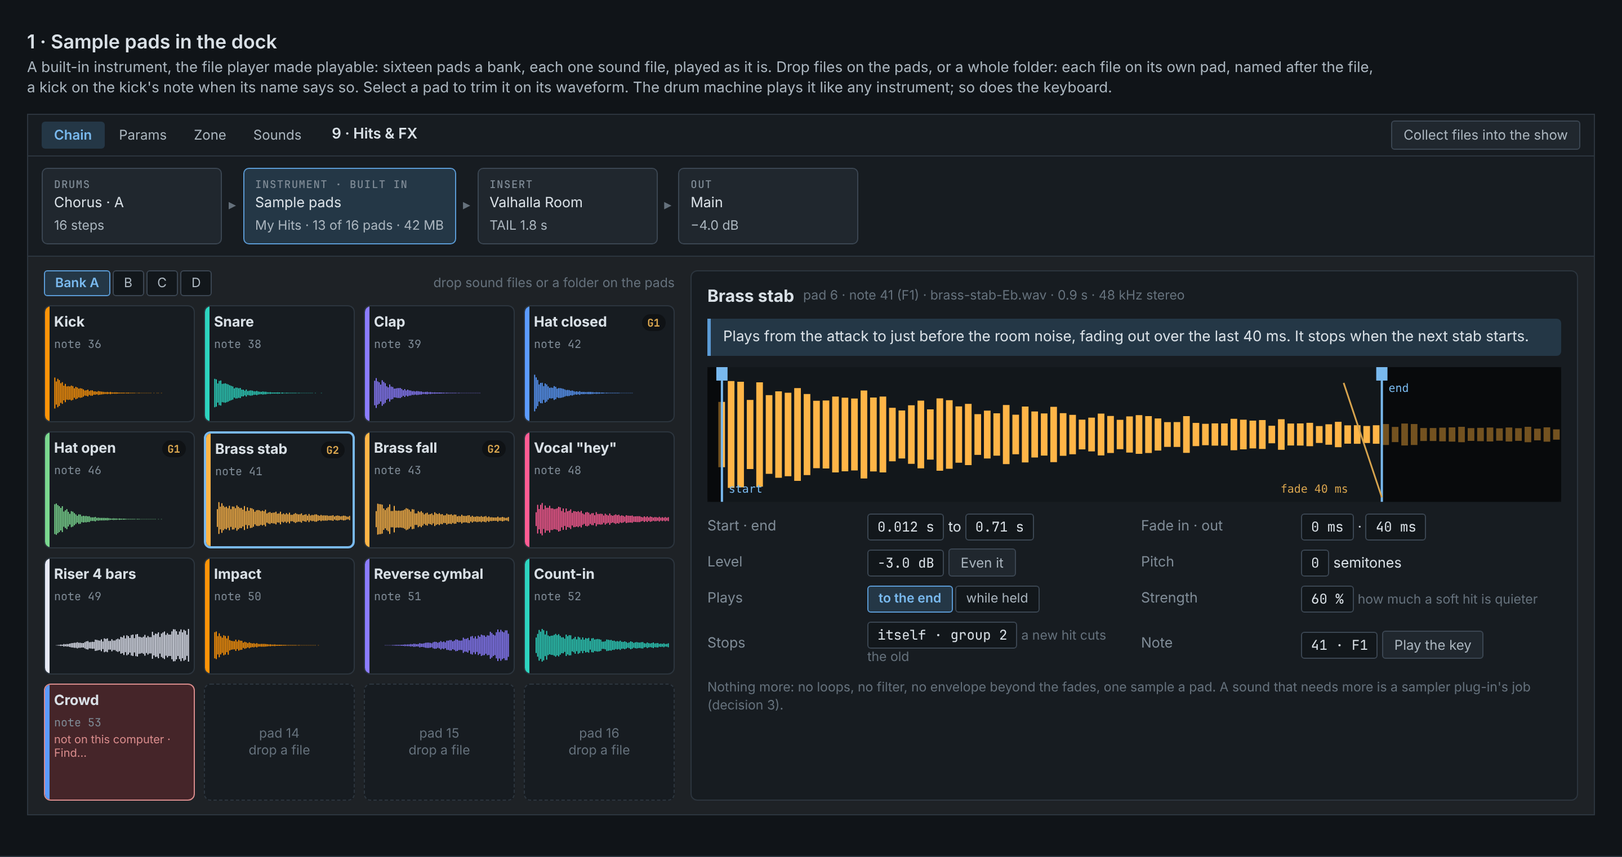
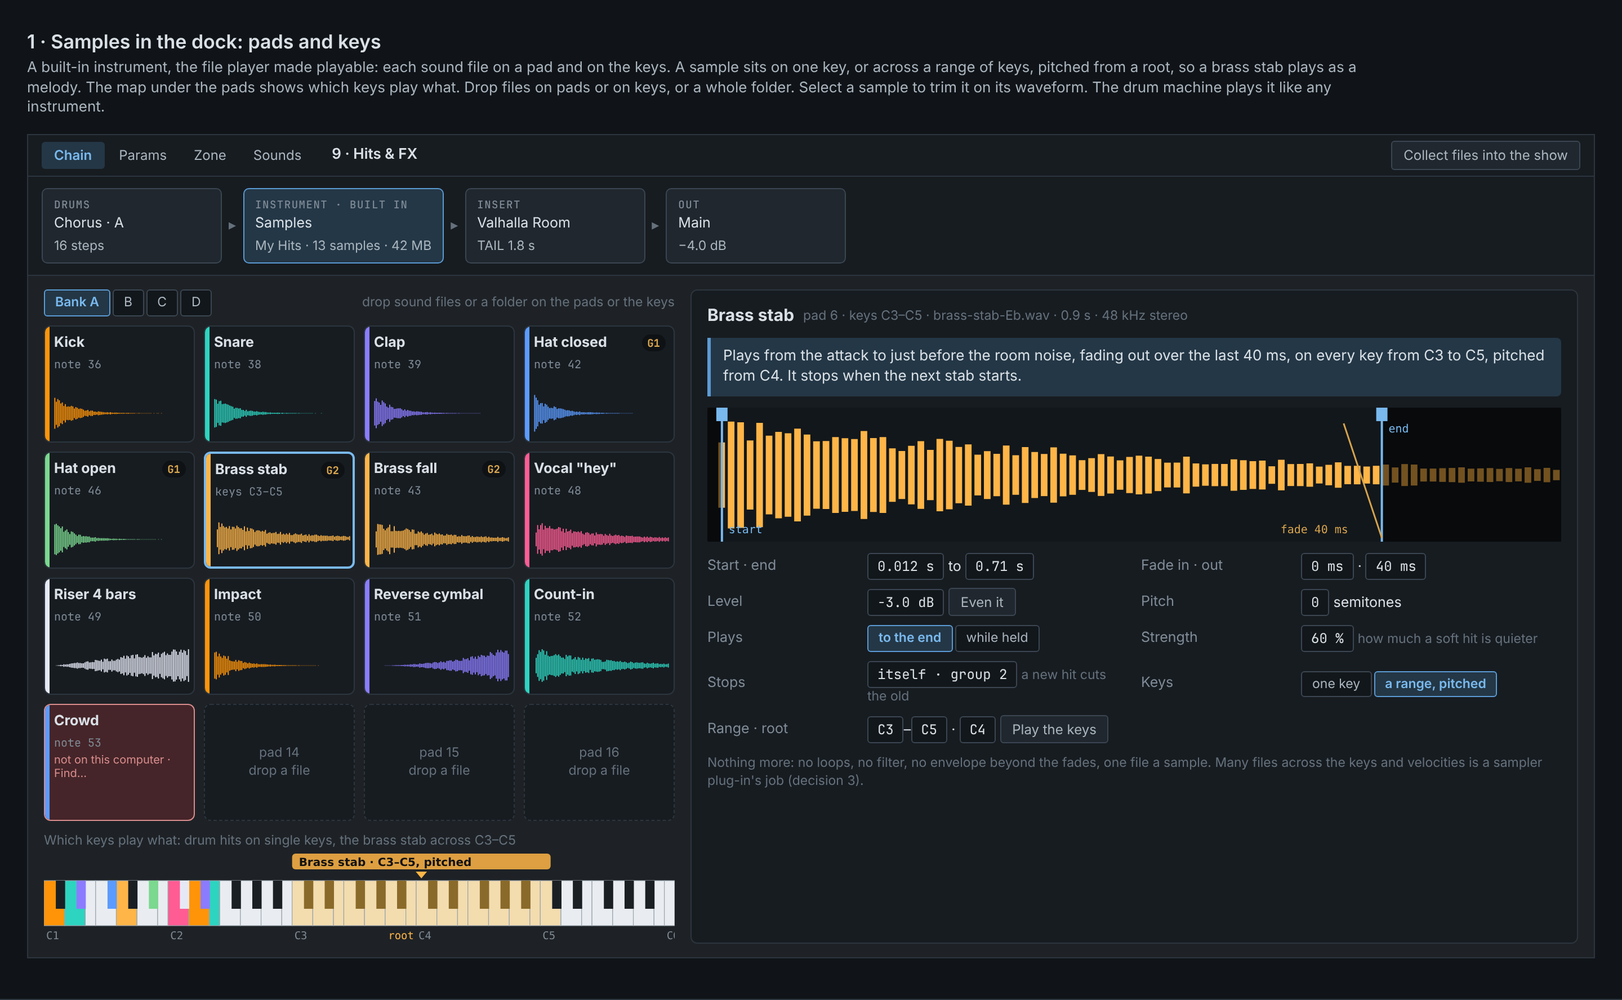
Design: samples approved, on the keys as well as the pads [skip ci]
The owner approved the one-shot sampler with one change: it should not be tied to drum pads; the
keys should play samples too, and be assignable. Every sample now plays from the keys as well as
its pad, on one key or across a range of keys pitched from a root, so a stab or a vocal shout can
be played as a melody. A keyboard map under the pads shows which keys play what, keys are set by
playing them or by dropping a file on them, and the instrument is named Samples. The rest stands:
one file a sample, no loops, filters or envelopes, files collected into the show, SAMPLES and TRIM
on the CTRL49.

Claude-Session: https://claude.ai/code/session_01HyVeCzB98iwNdttddkKjwm

diff --git a/docs/design/hostage-sampler-mockups.html b/docs/design/hostage-sampler-mockups.html
@@ -3,7 +3,7 @@
 <head>
 <meta charset="utf-8">
 <meta name="viewport" content="width=device-width, initial-scale=1">
-<title>HoSTage: sample pads, mockups</title>
+<title>HoSTage: samples, mockups</title>
 <!--
   Mockups for docs/design/hostage-sampler-design.md: sample pads, a built-in one-shot sampler that
   extends the first round's file player (decision 3). Static, invented data; HoSTage's own colours
@@ -70,24 +70,24 @@
 
 <section class="frame" id="f1">
   <div class="caption">
-    <h2>1 · Sample pads in the dock</h2>
-    <p>A built-in instrument, the file player made playable: sixteen pads a bank, each one sound file, played as it is. Drop files on the pads,
-      or a whole folder: each file on its own pad, named after the file, a kick on the kick's note when its name says so. Select a pad to trim it
-      on its waveform. The drum machine plays it like any instrument; so does the keyboard.</p>
+    <h2>1 · Samples in the dock: pads and keys</h2>
+    <p>A built-in instrument, the file player made playable: each sound file on a pad and on the keys. A sample sits on one key, or across a
+      range of keys, pitched from a root, so a brass stab plays as a melody. The map under the pads shows which keys play what. Drop files on
+      pads or on keys, or a whole folder. Select a sample to trim it on its waveform. The drum machine plays it like any instrument.</p>
   </div>
   <div class="app">
     <div class="dtabs"><span class="tb on">Chain</span><span class="tb">Params</span><span class="tb">Zone</span><span class="tb">Sounds</span><span class="subj">9 · Hits &amp; FX</span><span class="sp"></span><span class="ghostb">Collect files into the show</span></div>
     <div class="strip">
       <div class="blk"><small>Drums</small>Chorus · A<span>16 steps</span></div><span class="arrow">▸</span>
-      <div class="blk sel"><small>Instrument · built in</small>Sample pads<span>My Hits · 13 of 16 pads · 42 MB</span></div><span class="arrow">▸</span>
+      <div class="blk sel"><small>Instrument · built in</small>Samples<span>My Hits · 13 samples · 42 MB</span></div><span class="arrow">▸</span>
       <div class="blk"><small>Insert</small>Valhalla Room<span>TAIL 1.8 s</span></div><span class="arrow">▸</span>
       <div class="blk"><small>Out</small>Main<span>−4.0 dB</span></div>
     </div>
     <div class="body">
-      <div><div class="row" style="margin-bottom:8px"><span class="seg"><span class="on">Bank A</span><span>B</span><span>C</span><span>D</span></span><span class="sp"></span><span class="note">drop sound files or a folder on the pads</span></div>
-        <div class="pads" id="pads1"></div></div>
-      <div class="edit"><div class="row"><h4>Brass stab</h4><span class="note">pad 6 · note 41 (F1) · brass-stab-Eb.wav · 0.9 s · 48 kHz stereo</span></div>
-        <div class="say">Plays from the attack to just before the room noise, fading out over the last 40 ms. It stops when the next stab starts.</div>
+      <div><div class="row" style="margin-bottom:8px"><span class="seg"><span class="on">Bank A</span><span>B</span><span>C</span><span>D</span></span><span class="sp"></span><span class="note">drop sound files or a folder on the pads or the keys</span></div>
+        <div class="pads" id="pads1"></div><div id="keys1" style="margin-top:10px"></div></div>
+      <div class="edit"><div class="row"><h4>Brass stab</h4><span class="note">pad 6 · keys C3–C5 · brass-stab-Eb.wav · 0.9 s · 48 kHz stereo</span></div>
+        <div class="say">Plays from the attack to just before the room noise, fading out over the last 40 ms, on every key from C3 to C5, pitched from C4. It stops when the next stab starts.</div>
         <div id="wave1"></div>
         <div class="kv">
           <span class="k">Start · end</span><span><span class="field">0.012 s</span> to <span class="field">0.71 s</span></span>
@@ -97,9 +97,10 @@
           <span class="k">Plays</span><span class="seg"><span class="on">to the end</span><span>while held</span></span>
           <span class="k">Strength</span><span><span class="field">60 %</span> <span class="note">how much a soft hit is quieter</span></span>
           <span class="k">Stops</span><span><span class="field">itself · group 2</span> <span class="note">a new hit cuts the old</span></span>
-          <span class="k">Note</span><span><span class="field">41 · F1</span> <span class="ghostb">Play the key</span></span>
+          <span class="k">Keys</span><span class="seg"><span>one key</span><span class="on">a range, pitched</span></span>
+          <span class="k">Range · root</span><span><span class="field">C3</span>–<span class="field">C5</span> · <span class="field">C4</span> <span class="ghostb">Play the keys</span></span>
         </div>
-        <div class="note">Nothing more: no loops, no filter, no envelope beyond the fades, one sample a pad. A sound that needs more is a sampler plug-in's job (decision 3).</div>
+        <div class="note">Nothing more: no loops, no filter, no envelope beyond the fades, one file a sample. Many files across the keys and velocities is a sampler plug-in's job (decision 3).</div>
       </div>
     </div>
   </div>
@@ -108,7 +109,7 @@
 <section class="frame" id="f2">
   <div class="caption">
     <h2>2 · Two pages on the CTRL49</h2>
-    <p>SAMPLES puts the bank on the pads: play them, or hold SELECT and press one to edit it. TRIM is the selected sample on its waveform:
+    <p>SAMPLES puts the bank on the pads, and the keys play what is mapped to them: play, or hold SELECT and press a pad or a key to edit its sample. TRIM is the selected sample on its waveform:
       start, end and the fades on the knobs, then level, pitch and how it plays. Which knob and pad does what is settled when the pages are built.</p>
   </div>
   <div class="two"><figure id="p1"></figure><figure id="p2"></figure></div>
@@ -117,7 +118,7 @@
 <script>
   const PADS = [
     ['Kick', 36, '#ff9408'], ['Snare', 38, '#2dd4bf'], ['Clap', 39, '#8b7cff'], ['Hat closed', 42, '#5b9bff', 'G1'],
-    ['Hat open', 46, '#7bd88f', 'G1'], ['Brass stab', 41, '#ffb547', 'G2', 'sel'], ['Brass fall', 43, '#ffb547', 'G2'], ['Vocal "hey"', 48, '#ff5c93'],
+    ['Hat open', 46, '#7bd88f', 'G1'], ['Brass stab', 'C3–C5', '#ffb547', 'G2', 'sel'], ['Brass fall', 43, '#ffb547', 'G2'], ['Vocal "hey"', 48, '#ff5c93'],
     ['Riser 4 bars', 49, '#e6e9f5'], ['Impact', 50, '#ff9408'], ['Reverse cymbal', 51, '#8b7cff'], ['Count-in', 52, '#2dd4bf'],
     ['Crowd', 53, '#5b9bff', null, 'miss'], [null], [null], [null],
   ];
@@ -129,8 +130,17 @@
   document.getElementById('pads1').innerHTML = PADS.map(([n, note, c, ch, st], i) => {
     if (!n) return `<div class="pad empty">pad ${i + 1}<br>drop a file</div>`;
     const shape = /Riser/.test(n) ? 'rise' : /Reverse/.test(n) ? 'rev' : /Kick|Snare|Clap|Hat|Impact/.test(n) ? 'hit' : 'stab';
-    return `<div class="pad${st === 'sel' ? ' sel' : ''}${st === 'miss' ? ' miss' : ''}"><span class="bar" style="background:${c}"></span><b>${n}</b><small>note ${note}</small>${ch ? `<span class="ch">${ch}</span>` : ''}
+    return `<div class="pad${st === 'sel' ? ' sel' : ''}${st === 'miss' ? ' miss' : ''}"><span class="bar" style="background:${c}"></span><b>${n}</b><small>${typeof note === 'number' ? 'note ' + note : 'keys ' + note}</small>${ch ? `<span class="ch">${ch}</span>` : ''}
       ${st === 'miss' ? '<small style="color:var(--danger);font-family:var(--sans)">not on this computer · Find…</small>' : `<svg class="wf" viewBox="0 0 120 34" preserveAspectRatio="none">${wave(120, 34, shape, c)}</svg>`}</div>`; }).join('');
+  { const LO = 36, HI = 96, W = 560, kw = W / (HI - LO + 1); const blk = (n) => [1, 3, 6, 8, 10].includes(n % 12); let s = '';
+    const single = { 36: '#ff9408', 38: '#2dd4bf', 39: '#8b7cff', 42: '#5b9bff', 46: '#7bd88f', 43: '#ffb547', 48: '#ff5c93', 49: '#e6e9f5', 50: '#ff9408', 51: '#8b7cff', 52: '#2dd4bf' };
+    s += `<rect x="${(60 - LO) * kw}" y="0" width="${(85 - 60) * kw}" height="14" rx="3" fill="#ffb547" opacity=".85"/><text x="${(60 - LO) * kw + 6}" y="11" font-family="DejaVu Sans, sans-serif" font-size="10" font-weight="700" fill="#111">Brass stab · C3–C5, pitched</text>`;
+    s += `<polygon points="${(72 - LO) * kw + kw / 2 - 5},16 ${(72 - LO) * kw + kw / 2 + 5},16 ${(72 - LO) * kw + kw / 2},22" fill="#ffb547"/>`;
+    for (let n = LO; n <= HI; n++) if (!blk(n)) { const m = blk(n + 1) ? n + 2 : n + 1; s += `<rect x="${(n - LO) * kw}" y="24" width="${(Math.min(m, HI + 1) - n) * kw}" height="40" fill="${single[n] || (n >= 60 && n <= 84 ? '#f3dcae' : '#e9edf1')}" stroke="#9aa4ad" stroke-width=".6"/>`; }
+    for (let n = LO; n <= HI; n++) if (blk(n)) s += `<rect x="${(n - LO) * kw + kw * .15}" y="24" width="${kw * .9}" height="25" fill="${single[n] || (n >= 60 && n <= 84 ? '#8a6a2a' : '#1a1f24')}"/>`;
+    [36, 48, 60, 72, 84, 96].forEach((n) => { s += `<text x="${(n - LO) * kw + 2}" y="76" font-family="DejaVu Sans Mono, monospace" font-size="9.5" fill="#7f8b96">C${n / 12 - 2}</text>`; });
+    s += `<text x="${(72 - LO) * kw - 2}" y="76" font-family="DejaVu Sans Mono, monospace" font-size="9.5" fill="#ffb547" text-anchor="end">root</text>`;
+    document.getElementById('keys1').innerHTML = `<div class="note" style="margin-bottom:4px">Which keys play what: drum hits on single keys, the brass stab across C3–C5</div><svg viewBox="0 0 ${W} 80" style="width:100%;height:auto;display:block">${s}</svg>`; }
   { const W = 760, H = 120; let s = `<rect width="${W}" height="${H}" rx="4" fill="#12171b"/>` + wave(W, H, 'stab', '#ffb547', [.017, .79]);
     const sx = .017 * W, ex = .79 * W;
     s += `<line x1="${sx}" y1="0" x2="${sx}" y2="${H}" stroke="#79b9ee" stroke-width="2"/><rect x="${sx - 5}" y="0" width="10" height="12" fill="#79b9ee"/>`;
@@ -164,11 +174,11 @@
     s += `<g transform="translate(16,38)">${wave(448, 110, 'stab', C.amber, [.017, .79])}</g>`;
     s += `<rect x="${16 + .017 * 448 - 1}" y="36" width="2" height="114" fill="${C.teal}"/><rect x="${16 + .79 * 448 - 1}" y="36" width="2" height="114" fill="${C.teal}"/>`;
     s += `<path d="M${16 + .79 * 448 - 20} 44 L${16 + .79 * 448} 146" stroke="${C.amber}" stroke-width="1.5" fill="none"/>`;
-    s += T(16, 166, 'PLAYS TO THE END · STOPS ITSELF AND GROUP 2', C.label, 8, "font-weight='700'");
+    s += T(16, 166, 'PLAYS TO THE END · STOPS ITSELF AND GROUP 2 · KEYS C3–C5, PITCHED FROM C4', C.label, 8, "font-weight='700'");
     s += pads([{ l: 'AUDITION', on: true }, { l: 'TO END', on: true, col: C.amber }, { l: 'HELD' }, { l: 'CHOKE G2', on: true, col: C.amber }, null, null, { l: 'SELECT' }, { l: '‹ PADS', on: true, col: C.violet }]);
-    s += cells([{ l: 'START', v: '0.012', vs: 12, focus: true, f: .02 }, { l: 'END', v: '0.71', f: .79 }, { l: 'FADE IN', v: '0 ms', vs: 12 }, { l: 'FADE OUT', v: '40 ms', vs: 12, f: .2 }, { l: 'LEVEL', v: '−3.0', f: .75 }, { l: 'PITCH', v: '0', f: .5 }, { l: 'STRENGTH', v: '60%', f: .6 }, { l: 'NOTE', v: 'F1' }]);
+    s += cells([{ l: 'START', v: '0.012', vs: 12, focus: true, f: .02 }, { l: 'END', v: '0.71', f: .79 }, { l: 'FADE IN', v: '0 ms', vs: 12 }, { l: 'FADE OUT', v: '40 ms', vs: 12, f: .2 }, { l: 'LEVEL', v: '−3.0', f: .75 }, { l: 'PITCH', v: '0', f: .5 }, { l: 'STRENGTH', v: '60%', f: .6 }, { l: 'KEYS', v: 'C3–C5', vs: 12 }]);
     s += T(8, 265, 'KNOBS TRIM THE SELECTED SAMPLE · PAD 1 PLAYS IT', C.foot, 8.2, "font-weight='600' letter-spacing='0.3'");
-    document.getElementById('p2').innerHTML = svg(s) + '<figcaption><b>TRIM</b> · the selected sample on its waveform: start, end, fades, level, pitch, strength, its note</figcaption>'; }
+    document.getElementById('p2').innerHTML = svg(s) + '<figcaption><b>TRIM</b> · the selected sample on its waveform: start, end, fades, level, pitch, strength, its keys</figcaption>'; }
 </script>
 </body>
 </html>

diff --git a/docs/design/hostage-sampler-design.md b/docs/design/hostage-sampler-design.md
@@ -1,15 +1,18 @@
-# HoSTage: sample pads
+# HoSTage: samples, on pads and keys
 
-*A proposal with mockups for the owner to approve, 2026-11-19. Nothing built. Feature 12 of
+*A proposal with mockups, approved by the owner on 2026-11-19 with one change: "It shouldn't just be
+tied to drum pads.. the keys could also work or be assignable. But this is nice, document it." So a
+sample plays from the keys as well as the pads, on one key or across a range. Nothing built. Feature 12 of
 `hostage-build-features-2.md`, asked for as "what about a sampler?" and then "give me a proposal".
 Mockups: `hostage-sampler-mockups.html`, pictures `docs/media/hostage-sampler-1.png` (the dock) and
 `-2.png` (two CTRL49 pages). When this and the code disagree, the code is right.*
 
 ## What it is for
 
-Playing short sound files from pads and keys: a horn stab, a riser, a vocal shout, a count-in, an
-impact, your own drum hits. The drum machine can play them like any instrument, and so can the
-keyboard.
+Playing short sound files from pads and from the keys: a horn stab, a riser, a vocal shout, a
+count-in, an impact, your own drum hits. A sample can sit on one key or across a range of keys,
+pitched, so a stab or a vocal shout can be played as a melody. The drum machine plays them like any
+instrument.
 
 ## Why sample pads, and not a sampler
 
@@ -35,27 +38,33 @@ player decision 3 already allows rather than adding a synth.
 
 ![Sample pads in the dock](../media/hostage-sampler-1.png)
 
-- **A built-in instrument**, "Sample pads", in a part's chain like any instrument, before its
-  effects. Its block says the kit's name, how many pads are used and how much memory it takes.
-- **Sixteen pads a bank, four banks**, each pad one file, with its name, its note and its waveform.
+- **A built-in instrument**, "Samples", in a part's chain like any instrument, before its effects.
+  Its block says the kit's name, how many samples it has and how much memory it takes.
+- **Sixteen pads a bank, four banks**, each pad one sample, with its name, its keys and its waveform.
+- **Pads and keys alike** (the owner's change): every sample is on a pad and on the keys. **One
+  key**, as a drum hit is; or **a range of keys, pitched** from a root key, so the brass stab plays
+  as a melody from C3 to C5. A **keyboard map** under the pads shows which keys play what. Keys are
+  set by **Play the keys** (the lowest, the highest, the root) or by dropping a file on the keys.
 - **Getting files in**: drop files on pads, or a whole folder: each file on its own pad, named after
   the file, and a file whose name says kick, snare, hat or clap goes on that drum's General MIDI note.
   From the library too, where a set of pads is saved as a kit.
 - **Each pad**, in words first ("Plays from the attack to just before the room noise, fading out over
-  the last 40 ms. It stops when the next stab starts"), then: start and end on the waveform; a fade
-  in and out; level (with **Even it**, as for parts); pitch in semitones; **plays to the end** or
-  **while held**; how much a soft hit is quieter; **stops** itself or a group (the closed hat cuts the
-  open one); its note, set by **Play the key**.
-- **Nothing more**: no loops, no filter, no envelope beyond the fades, one sample a pad.
+  the last 40 ms, on every key from C3 to C5, pitched from C4. It stops when the next stab
+  starts"), then: start and end on the waveform; a fade in and out; level (with **Even it**, as for
+  parts); pitch in semitones; **plays to the end** or **while held**; how much a soft hit is quieter;
+  **stops** itself or a group (the closed hat cuts the open one); its keys.
+- **Nothing more**: no loops, no filter, no envelope beyond the fades, one file a sample. Many files
+  across the keys and velocities is a sampler plug-in's job (decision 3).
 
 ## 2. On the CTRL49
 
 ![Two pages on the CTRL49](../media/hostage-sampler-2.png)
 
-- **SAMPLES**: the bank on the pads, each with its waveform; play them, or hold SELECT and press one
-  to edit it. Knobs: the bank, then each pad's level.
+- **SAMPLES**: the bank on the pads, each with its waveform, and the keys playing what is mapped
+  to them; play, or hold SELECT and press a pad or a key to edit its sample. Knobs: the bank, then
+  each pad's level.
 - **TRIM**: the selected sample on its waveform: start, end, the fades, level, pitch, strength and
-  its note on the knobs; pads to hear it, choose how it plays and its group.
+  its keys on the knobs; pads to hear it, choose how it plays and its group.
 - Which knob and pad does what is settled when the pages are built (the second round's rules).
 
 ## 3. Files that travel with the show
@@ -70,18 +79,19 @@ player decision 3 already allows rather than adding a synth.
 ## What it needs
 
 - **A built-in instrument** that plays files from memory: start, end, fades, level, pitch,
-  held or to the end, choke groups; in the audio thread, no worker, so no isolation block
+  held or to the end, choke groups, one key or a pitched range of keys; in the audio thread, no worker, so no isolation block
   (decision 7 applies to plug-ins only).
 - **Reading sound files**: JUCE's audio format readers, as the library already uses for previews.
 - **The kit's place in the show**, the collect command, and the missing-file state.
 - **The dock view and the two pages.**
 
-## Decisions for the owner
+## Decisions (owner, 2026-11-19: "this is nice, document it", with the keys)
 
-1. **Sample pads only, as the built-in file player made playable**: one file a pad, no loops,
-   filters or envelopes, a full sampler left to plug-ins?
-2. **The pad's settings as listed**: start and end, fades, level, pitch, to the end or while held,
-   strength, choke groups, a note?
+1. **One-shot samples, as the built-in file player made playable**: one file a sample, no loops,
+   filters or envelopes, a full sampler left to plug-ins. **Yes**, and **not tied to the pads**:
+   every sample plays from the keys too, on one key or across a range, pitched.
+2. **The settings as listed**: start and end, fades, level, pitch, to the end or while held,
+   strength, choke groups, and its keys. **Yes.**
 3. **Files collected into the show**, missing ones shown like a missing plug-in, everything in
-   memory when the show opens?
-4. **SAMPLES and TRIM** on the CTRL49, as drawn?
+   memory when the show opens. **Yes.**
+4. **SAMPLES and TRIM** on the CTRL49, as drawn, with the keys added. **Yes.**

diff --git a/docs/design/README.md b/docs/design/README.md
@@ -71,7 +71,7 @@ with an *as built* section per phase.
 | [HoSTage: the Layers tab](hostage-layers-design.md) | *Approved with mockups, 2026-11-18; nothing built.* How parts share the keyboard, built on the zones, layer groups, Layers tab and CTRL49 LAYERS page that exist. One picture: a lane per part across the keys with velocity drawn inside it, groups as brackets, and a played note shown through every lane. Layering two parts by one of four ways, said in words. LAYERS on the CTRL49 grown the same way. Mockups in [hostage-layers-mockups.html](hostage-layers-mockups.html). |
 | [HoSTage: Build features, second round](hostage-build-features-2.md) | *Started 2026-11-19; nothing built.* The second round of Build features, after the first round's record (`hostage-wider-not-a-daw.md`), whose rules it follows. A list of features, each with its status and its design record. |
 | [HoSTage: the drum machine](hostage-drums-design.md) | *Approved with mockups, 2026-11-19; nothing built.* Feature 1 of the second round. A drum part's patterns, which already have drum lanes with strength, chance, repeats, nudge, conditions, polymeter, variations and a held fill, get a drum machine's face: a DRUMS block and grid in the dock, and DRUMS, KIT and PATTERN pages on the CTRL49. It plays the drum instrument you load and has no sounds of its own. Mockups in [hostage-drums-mockups.html](hostage-drums-mockups.html). |
-| [HoSTage: sample pads](hostage-sampler-design.md) | *Proposal with mockups for approval, 2026-11-19; nothing built.* Feature 12 of the second round. A built-in one-shot sampler, the first round's file player made playable: sixteen pads a bank, one file a pad, trimmed on its waveform, with fades, level, pitch, choke groups and a note; files collected into the show; SAMPLES and TRIM pages on the CTRL49. A full sampler instrument stays with plug-ins. Mockups in [hostage-sampler-mockups.html](hostage-sampler-mockups.html). Four decisions for the owner. |
+| [HoSTage: samples, on pads and keys](hostage-sampler-design.md) | *Approved with mockups, 2026-11-19; nothing built.* Feature 12 of the second round. A built-in one-shot sampler, the first round's file player made playable: each sample on a pad and on the keys, one key or a pitched range, sixteen pads a bank, trimmed on its waveform, with fades, level, pitch, choke groups and a note; files collected into the show; SAMPLES and TRIM pages on the CTRL49. A full sampler instrument stays with plug-ins. Mockups in [hostage-sampler-mockups.html](hostage-sampler-mockups.html). |
 | [The modular chain](modular-chain.md) | *As built.* Instruments, MIDI modules and inserts as separate things: the per-part MIDI insert chain that replaced the welded FX-into-arp pair (with its migration), group buses where several parts become one signal that keeps going, and chain presets that keep a whole voice — instrument, modules, inserts and zone — as one library record. Ends with what it deliberately does not do. |
 | [Reliability, diagnostics and the support bundle](instrument-host-reliability.md) | The baseline's §17 layer, built after the seven functionality stages: the architecture check that keeps an unloadable module out of the browser without calling it broken, safe startup after a plug-in takes the process down, a last-known-good session that is not the crash, and a support bundle gathered by allowlist. Carries the §18.12 handover material for the host as a whole — compatibility matrix, known limitations, failure fixtures and a manual test plan. |
 | [Feature-list completion audit](hostage-feature-completion-audit.md) | Evidence matrix for the 36 requested Hostage additions: persistent/native/UI/test ownership per item, permitted browser verification, and the two remaining completion gates (native rebuild and real out-of-process crash isolation). |

diff --git a/docs/design/hostage-build-features-2.md b/docs/design/hostage-build-features-2.md
@@ -32,7 +32,7 @@ is right.*
 | 9 | **Step effects**: a lane that changes an effect's setting step by step | taken; design to come | |
 | 10 | **The kick ducks the bass**, from the pattern's own hits | taken; design to come | |
 | 11 | **A line machine**: the drum grid's twin for basslines and synth lines | taken; design to come | |
-| 12 | **Sample pads**: a built-in one-shot sampler, the file player made playable | proposal with mockups, 2026-11-19 | `hostage-sampler-design.md` |
+| 12 | **Samples, on pads and keys**: a built-in one-shot sampler, the file player made playable | approved with mockups, 2026-11-19 | `hostage-sampler-design.md` |
 
 ## 1. A drum machine
 
@@ -100,7 +100,7 @@ exists: 2, 3, 9, 11 and 6.
     accent and a slide, the notes able to follow the chord being played. Note lanes exist; this is
     their face, built the way the drum machine is.
 
-## 12. Sample pads
+## 12. Samples, on pads and keys
 
 The owner, 2026-11-19: "What about a sampler?", then "Give me a proposal". HoSTage plays no sound
 files of its own today. A full sampler instrument (many samples across keys and velocities, loops,
@@ -108,5 +108,7 @@ envelopes, filters) would be a synth and is ruled out by the first round's decis
 one file a pad played as it is, are the file player that decision already allows, made playable.
 The proposal draws sample pads only: sixteen pads a bank in the dock, each trimmed on its waveform,
 files dropped one by one or as a folder, collected into the show, and SAMPLES and TRIM pages on the
-CTRL49. Four decisions in the design record.
+CTRL49. **Approved, 2026-11-19**, with the owner's change: "It shouldn't just be tied to drum
+pads.. the keys could also work or be assignable." Every sample plays from the keys as well, on one
+key or across a range of keys, pitched from a root, and a keyboard map shows which keys play what.
 
